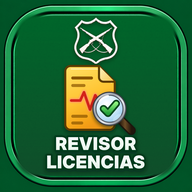
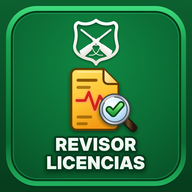
Ícono del Revisor de Licencias redibujado en vectores
Marco, fondo y escudo redibujados en vectores (antes se reutilizaba una
imagen de 512 px ampliada, lo que dejaba partes borrosas). La licencia
queda centrada bajo el escudo. Versión del ícono ?v=3.

Claude-Session: https://claude.ai/code/session_01EfeSGJPmQYPmhZeSsZQwjQ

diff --git a/revisor-licencias-medicas/windows.html b/revisor-licencias-medicas/windows.html
@@ -10,8 +10,8 @@
   <meta name="apple-mobile-web-app-capable" content="yes">
   <meta name="apple-mobile-web-app-status-bar-style" content="default">
   <meta name="apple-mobile-web-app-title" content="Licencias">
-  <link rel="icon" type="image/png" href="icono-licencias-192.png?v=2">
-  <link rel="apple-touch-icon" href="icono-licencias-180.png?v=2">
+  <link rel="icon" type="image/png" href="icono-licencias-192.png?v=3">
+  <link rel="apple-touch-icon" href="icono-licencias-180.png?v=3">
   <link rel="manifest" href="manifest.webmanifest?v=7">
   <title>Revisor de Licencias Médicas · Windows</title>
   <style>

diff --git a/revisor-licencias-medicas/index.html b/revisor-licencias-medicas/index.html
@@ -11,8 +11,8 @@
   <meta name="apple-mobile-web-app-status-bar-style" content="default">
   <meta name="apple-mobile-web-app-title" content="Licencias">
   <meta name="application-name" content="Licencias">
-  <link rel="icon" type="image/png" href="icono-licencias-192.png?v=2">
-  <link rel="apple-touch-icon" href="icono-licencias-180.png?v=2">
+  <link rel="icon" type="image/png" href="icono-licencias-192.png?v=3">
+  <link rel="apple-touch-icon" href="icono-licencias-180.png?v=3">
   <link rel="manifest" href="manifest.webmanifest?v=9">
   <title>Revisor de Licencias Médicas</title>
   <style>
